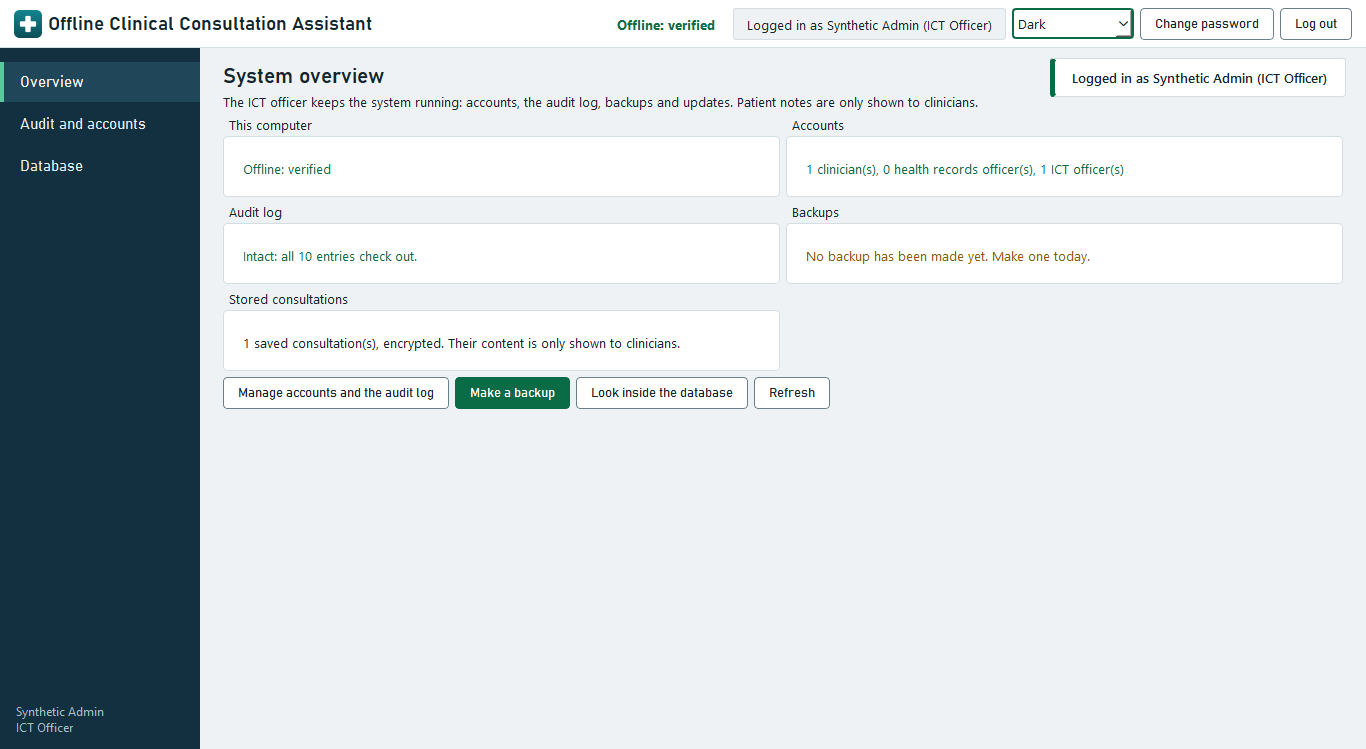
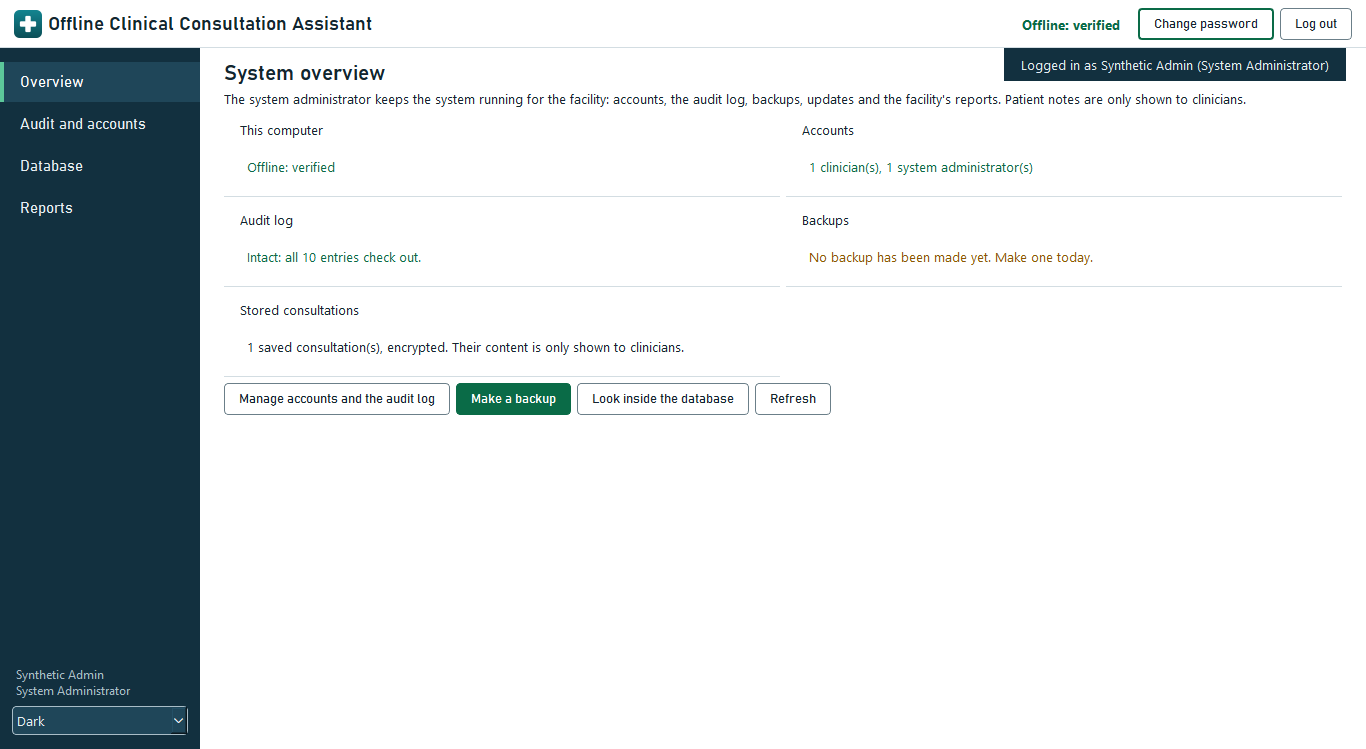
fix(ui): remove the remaining generated-app tells found by a design review
A design critique of the screenshots found the identity shown three
times (header badge, floating toast, sidebar), every section boxed as
an identical card, filler details and a crowded header. Now the work
area is one sheet like a paper form, sections divided by rules; the
overview reads as a register; the user appears once, at the foot of
the sidebar, with the light or dark choice; the notice is a flat ink
strip; the sample rate is gone and the clock and level meter show only
while dictating; the audit log shows plain times and short session ids.
Screenshots and AMD-49 updated.

diff --git a/src/clinassist/ui/theme.py b/src/clinassist/ui/theme.py
@@ -101,15 +101,18 @@ QMainWindow, QDialog {{ background: {c["bg"]}; }}
     color: {c["text"]}; background: {c["bg"]}; border: 1px solid {c["border"]};
     border-radius: 3px; padding: 3px 10px;
 }}
+/* A plain notice in record ink, square, like a system message: no floating card. */
 #toast, #notice {{
-    color: {c["text"]}; background: {c["surface"]}; border: 1px solid {c["border"]};
-    border-left: 5px solid {c["primary"]}; border-radius: 3px; padding: 10px 14px;
-    font-weight: 600;
+    color: {c["ink_text"]}; background: {c["ink"]}; border: none; border-radius: 0;
+    padding: 8px 14px;
 }}
 
 /* The sidebar: record ink, like the index tabs of a patient file. */
 #sideNav {{ background: {c["ink"]}; }}
 #sideNav QLabel {{ color: {c["ink_muted"]}; font-size: 9pt; }}
+#sideNav QComboBox {{
+    background: {c["ink_selected"]}; color: {c["ink_text"]}; border: 1px solid {c["ink_muted"]};
+}}
 #navItem {{
     font-family: "Bahnschrift"; font-size: 11pt; text-align: left;
     color: {c["ink_text"]}; background: transparent; border: none;
@@ -122,16 +125,19 @@ QMainWindow, QDialog {{ background: {c["bg"]}; }}
 #navItem:focus {{ border: 2px solid {c["ink_mark"]}; }}
 QTabWidget#mainTabs::pane {{ border: none; background: transparent; }}
 
-/* Panels are flat sheets with a hairline edge, titled in the signage face. */
+/* The work area is one sheet, like a paper form: sections are not boxed, only divided by a
+   rule on their right, and titled inside the sheet in the signage face. */
+QTabWidget#mainTabs > QWidget {{ background: {c["surface"]}; }}
 QGroupBox {{
-    background: {c["surface"]}; border: 1px solid {c["border"]}; border-radius: 4px;
-    margin-top: 20px; padding: 14px 10px 10px 10px;
+    background: {c["surface"]}; border: none; border-right: 1px solid {c["border"]};
+    border-radius: 0; margin-top: 30px; padding: 6px 14px 12px 14px;
 }}
 QGroupBox::title {{
-    subcontrol-origin: margin; left: 2px; padding: 0 2px; color: {c["text"]};
-    font-family: "Bahnschrift"; font-size: 11pt; font-weight: 600;
+    subcontrol-origin: margin; left: 14px; top: 8px; padding: 0; color: {c["text"]};
+    font-family: "Bahnschrift"; font-size: 12pt; font-weight: 600;
 }}
 QGroupBox QLabel {{ font-weight: normal; }}
+QGroupBox[kind="row"] {{ border-right: none; border-bottom: 1px solid {c["border"]}; }}
 
 QPushButton {{
     font-family: "Bahnschrift"; font-size: 10pt;

diff --git a/src/clinassist/ui/main.py b/src/clinassist/ui/main.py
@@ -137,8 +137,6 @@ class MainWindow(QMainWindow):
         header.addStretch(1)
         header.addWidget(self.network_label)
         header.addWidget(self.status_label)
-        header.addWidget(self.user_label)
-        header.addWidget(self.theme_box)
         header.addWidget(self.password_button)
         header.addWidget(logout)
 
@@ -206,10 +204,17 @@ class MainWindow(QMainWindow):
             self.nav_buttons.append(button)
             nav.addWidget(button)
         nav.addStretch(1)
+        # Who is logged in, and the light or dark choice, live at the foot of the sidebar: one
+        # place, instead of a badge in the header as well.
         self.role_label = QLabel()
         self.role_label.setWordWrap(True)
-        self.role_label.setContentsMargins(16, 0, 12, 0)
+        self.role_label.setContentsMargins(16, 0, 12, 6)
         nav.addWidget(self.role_label)
+        self.user_label.hide()  # kept for the tests and screen readers; the sidebar shows the user
+        theme_row = QHBoxLayout()
+        theme_row.setContentsMargins(12, 0, 12, 0)
+        theme_row.addWidget(self.theme_box)
+        nav.addLayout(theme_row)
         self.tabs.currentChanged.connect(
             lambda i: (
                 self.nav_buttons[i].setChecked(True) if 0 <= i < len(self.nav_buttons) else None
@@ -225,7 +230,7 @@ class MainWindow(QMainWindow):
         row.setSpacing(0)
         row.addWidget(side)
         content = QVBoxLayout()
-        content.setContentsMargins(14, 10, 14, 14)
+        content.setContentsMargins(0, 0, 0, 0)
         content.addWidget(self.tabs, 1)
         row.addLayout(content, 1)
         layout.addLayout(row, 1)

diff --git a/src/clinassist/ui/admin.py b/src/clinassist/ui/admin.py
@@ -215,6 +215,7 @@ class AdminView(QWidget):
         scroll.setWidget(column)
         scroll.setWidgetResizable(True)
         layout = QHBoxLayout(self)
+        layout.setContentsMargins(16, 12, 16, 12)
         layout.addWidget(audit, 3)
         layout.addWidget(scroll, 2)
 
@@ -227,7 +228,11 @@ class AdminView(QWidget):
             # The audit log stores ids only (no names in the hash chain); the screen shows the
             # username so an administrator can see who did what.
             user = self._usernames.get(user_id, user_id) if user_id else ""
-            for col, value in enumerate((seq, ts, event, session_id, user)):
+            # Readable at a glance: the time to the second, and the short session id the
+            # clinician's screen shows. The stored entry keeps the full values.
+            when = ts[:19].replace("T", " ")
+            short = session_id[:8].upper()
+            for col, value in enumerate((seq, when, event, short, user)):
                 self.table.setItem(row, col, QTableWidgetItem(str(value)))
 
     def verify(self) -> None:

diff --git a/src/clinassist/ui/workspace.py b/src/clinassist/ui/workspace.py
@@ -163,7 +163,7 @@ class ConsultationWorkspace(QWidget):
         self.new_button.clicked.connect(self.new_consultation)
         audio = QGroupBox("1. Consultation")
         a = QVBoxLayout(audio)
-        for w in (self.session_label, self.date_label, QLabel("Sample rate: 16 kHz, mono")):
+        for w in (self.session_label, self.date_label):
             a.addWidget(w)
         a.addWidget(self.type_button)
         a.addSpacing(8)
@@ -513,6 +513,10 @@ class ConsultationWorkspace(QWidget):
         self.start_button.setEnabled(can_start)
         self.type_button.setEnabled(can_start)
         self.stop_button.setEnabled(not busy and state is State.RECORDING)
+        # The clock and the level meter only mean something while dictating.
+        dictating = state is State.RECORDING
+        self.duration_label.setVisible(dictating)
+        self.level_bar.setVisible(dictating)
         self.discard_button.setEnabled(not busy and not idle_or_done)
         self.new_button.setEnabled(not busy and state is State.FINALIZED)
 

diff --git a/src/clinassist/ui/overview.py b/src/clinassist/ui/overview.py
@@ -82,6 +82,7 @@ class OverviewView(QWidget):
         )
         for i, (title, label) in enumerate(boxes):
             box = QGroupBox(title)
+            box.setProperty("kind", "row")  # a register row, ruled underneath (ui/theme.py)
             QVBoxLayout(box).addWidget(label)
             grid.addWidget(box, i // 2, i % 2)
         buttons = QHBoxLayout()
@@ -90,6 +91,7 @@ class OverviewView(QWidget):
         buttons.addStretch(1)
 
         layout = QVBoxLayout(self)
+        layout.setContentsMargins(24, 16, 24, 16)
         heading = QLabel("System overview")
         heading.setStyleSheet('font-family: "Bahnschrift"; font-size: 16pt; font-weight: 600;')
         layout.addWidget(heading)

diff --git a/src/clinassist/ui/records.py b/src/clinassist/ui/records.py
@@ -140,6 +140,7 @@ class RecordsView(QWidget):
         splitter.setStretchFactor(1, 3)
         splitter.setSizes([420, 980])  # wide enough for the date, the clinician and the session id
         layout = QVBoxLayout(self)
+        layout.setContentsMargins(16, 12, 16, 12)
         layout.addWidget(splitter, 1)
         self.include_transcript = QCheckBox("Include the transcript")
         self.export_button = QPushButton("Export as PDF...")

diff --git a/src/clinassist/ui/reports.py b/src/clinassist/ui/reports.py
@@ -124,6 +124,7 @@ class ReportsView(QWidget):
         body.addWidget(charts, 3)
         body.addWidget(self.table, 2)
         layout = QVBoxLayout(self)
+        layout.setContentsMargins(16, 12, 16, 12)
         layout.addLayout(bar)
         layout.addWidget(self.period_label)
         layout.addLayout(body, 1)

diff --git a/src/clinassist/ui/database.py b/src/clinassist/ui/database.py
@@ -91,6 +91,7 @@ class DatabaseView(QWidget):
         rb.addWidget(self.rows, 1)
 
         layout = QVBoxLayout(self)
+        layout.setContentsMargins(16, 12, 16, 12)
         layout.addWidget(disk)
         layout.addWidget(top, 2)
         layout.addWidget(rows_box, 2)

diff --git a/docs/AMENDMENTS.md b/docs/AMENDMENTS.md
@@ -52,4 +52,4 @@ Every deviation from the approved proposal is recorded here and applied to the d
 | AMD-46 | 4.1, 4.2 (FR-08, FR-10) | Name the administrator role by its job: System Administrator. One role runs the system for the facility: accounts, backups, the model update, offline protection, the audit log, the database check and the facility's reports. The stored code stays 'admin', so no migration is needed. Only clinicians see notes. | Supervisor feedback (12 Nov): "admin" alone is too generic; the role should be named and described by what it does in a health facility. | applied in code | |
 | AMD-47 | 4.2, 5 (Reports) | Turn the usage report into facility analytics with charts: busiest hours and days (staffing), consultations per day, and conditions seen (disease surveillance, MOH 705 categories). Conditions are matched to a fixed list and counted only by its labels; fewer than 3 cases are folded into Other. | Supervisor feedback (12 Nov): a report must show the data's significance to the facility, not only a summary. | applied in code | |
 | AMD-48 | 1.6, 1.7.1, 4.8 (wireframe panel 1) | Typing or pasting the consultation is the main path; recording becomes 'Dictate (beta)', shown beside it with a note to check every word. The wireframe's 'Session & Audio Control' panel is renamed 'Consultation'. Speech accuracy (NFR-06) moves to Future Work. | Supervisor feedback (12 Nov): the defence presents the features that are reliable every time; speech recognition is not (14.6% of words wrong on conversation, 21.6% on Kenyan clinical speech). | applied in code | |
-| AMD-49 | 4.8 | A clinic identity for the whole program: navigation moves to a left sidebar in record ink (like a patient file's index tabs), actions in register green, flat panels on clinic grey, Bahnschrift (built into Windows) for headings, navigation and buttons. The wireframe's three consultation panels are unchanged. Light and dark versions keep WCAG AA contrast. | Supervisor feedback (12 Nov): the previous look resembled a general AI chat app rather than a clinical system. | applied in code | |
+| AMD-49 | 4.8 | A clinic identity for the whole program: navigation in a left sidebar in record ink (like a patient file's index tabs), actions in register green, Bahnschrift (built into Windows) for headings, navigation and buttons. The work area is one sheet like a paper form: sections are divided by rules, not boxed; the overview reads as a register; the user is shown once, at the foot of the sidebar. The wireframe's three consultation panels are unchanged. Light and dark keep WCAG AA contrast. | Supervisor feedback (12 Nov): the previous look resembled a general AI chat app rather than a clinical system. | applied in code | |
